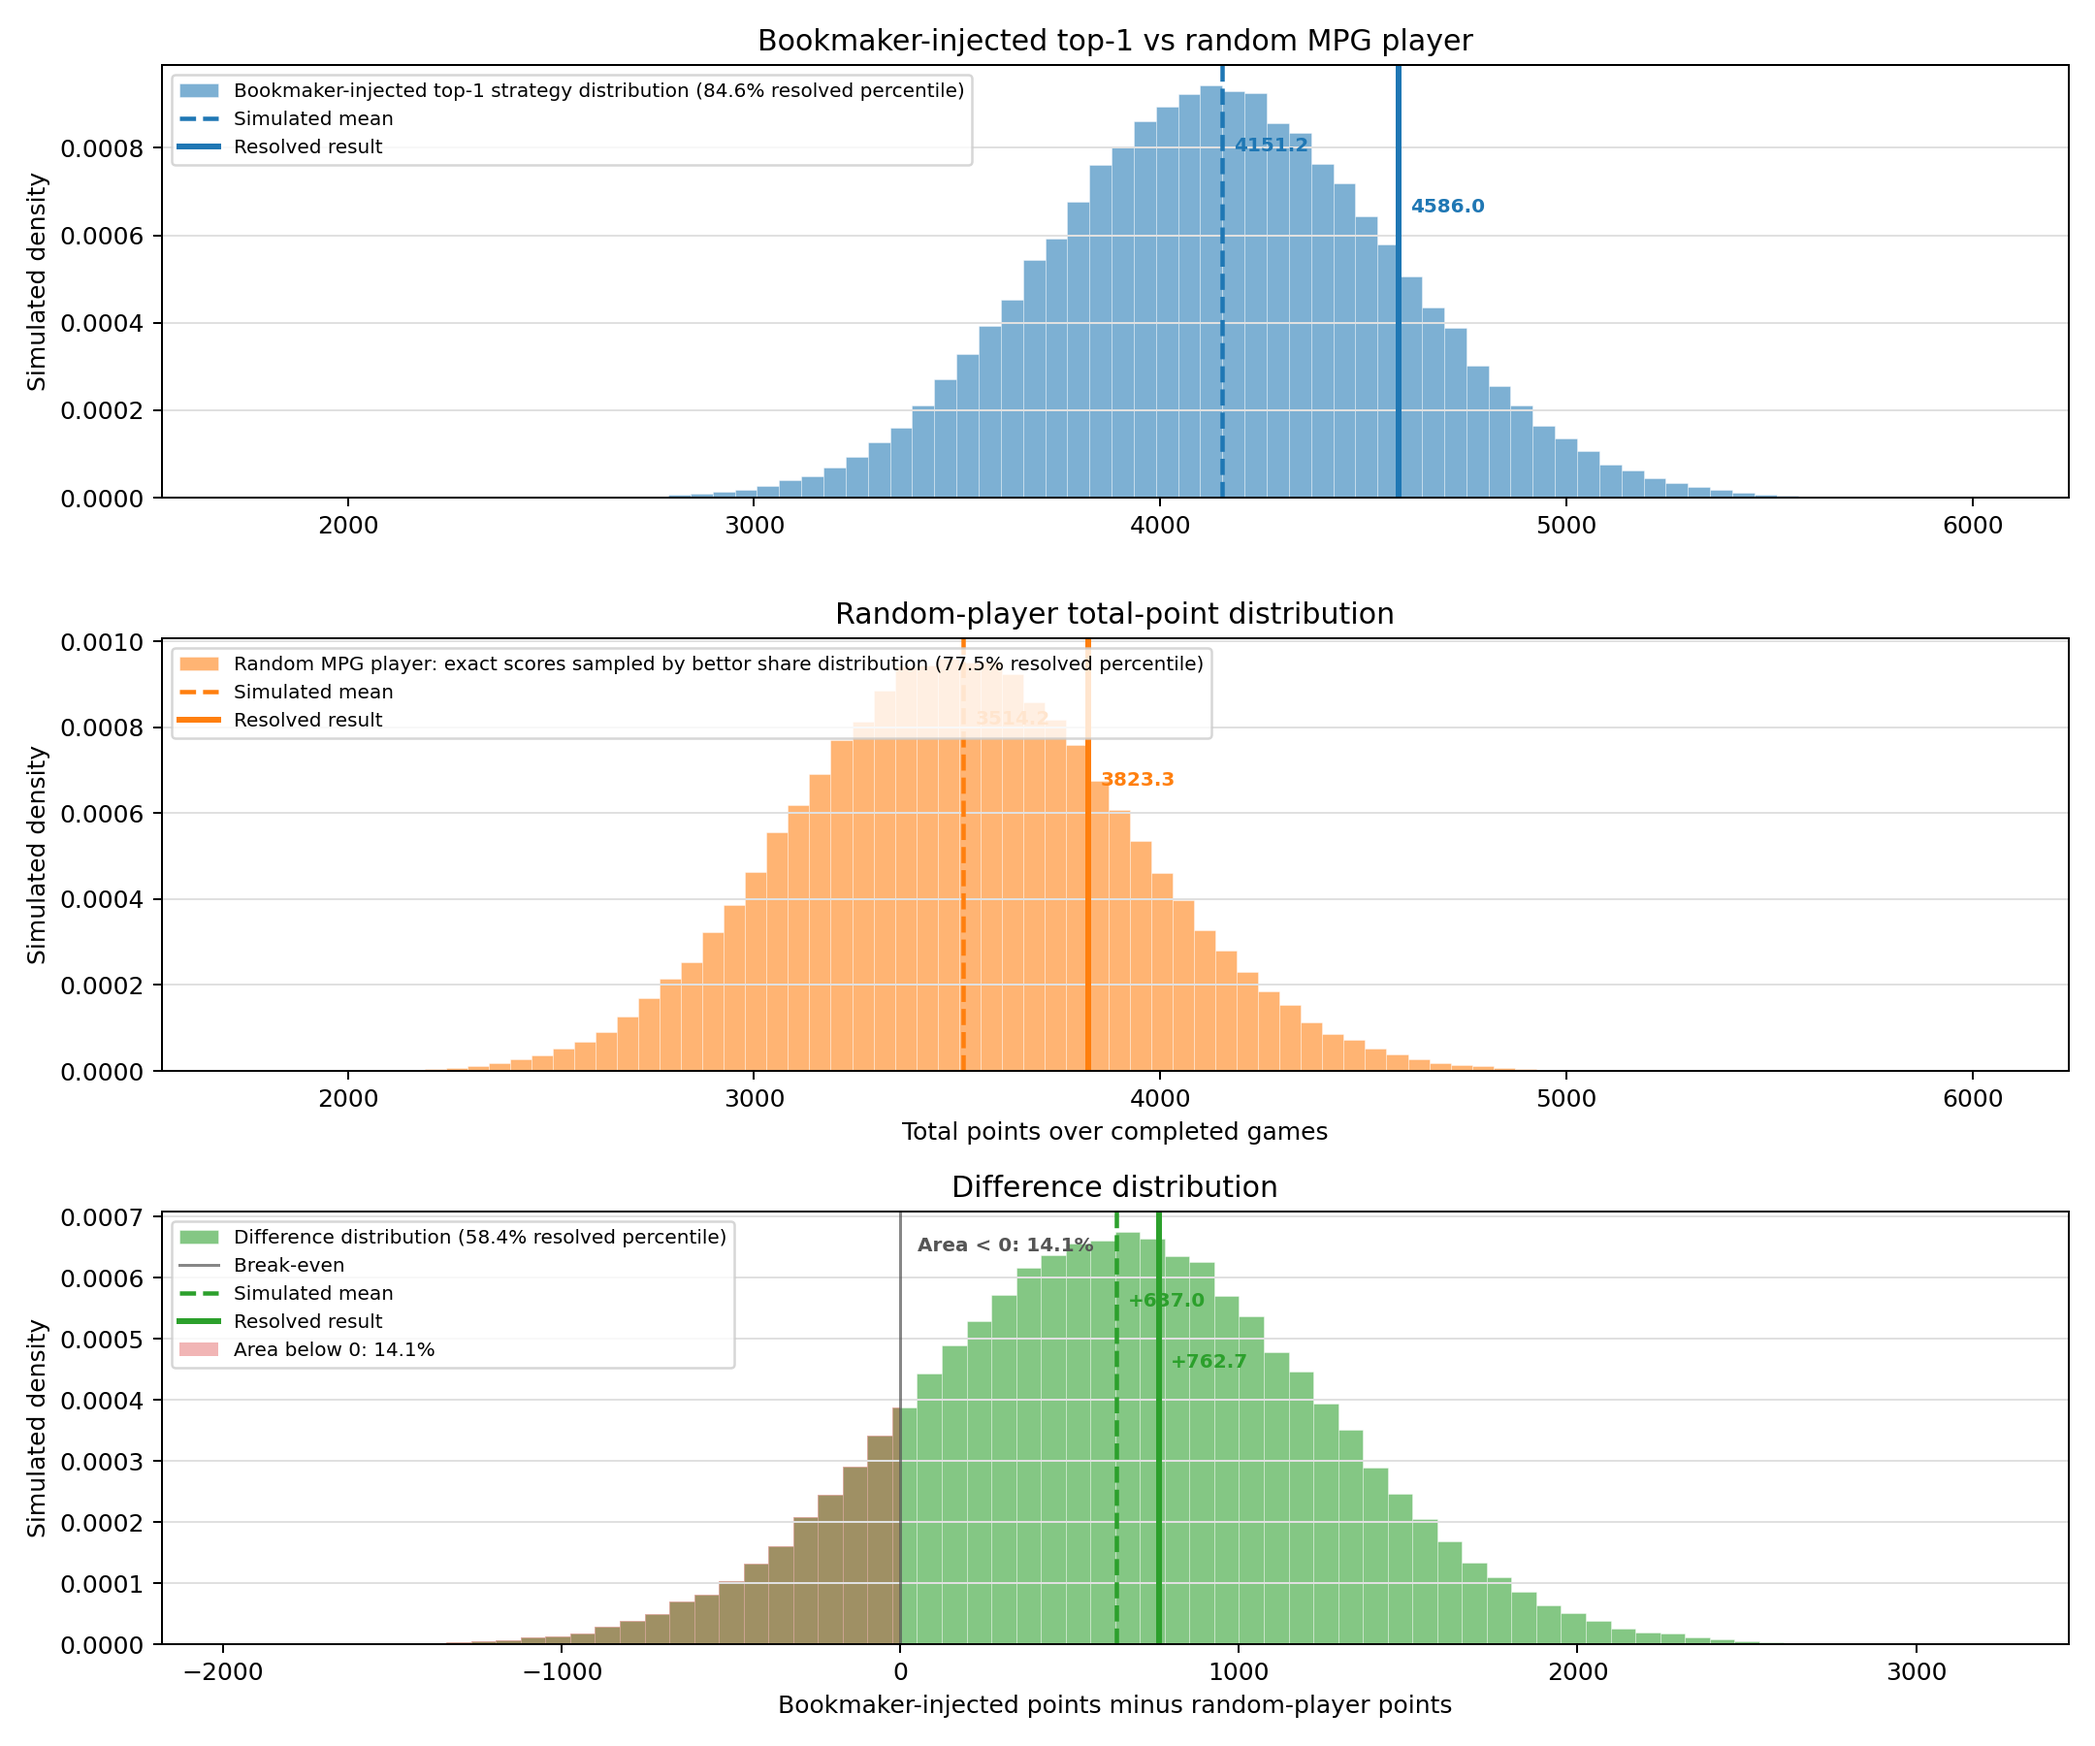
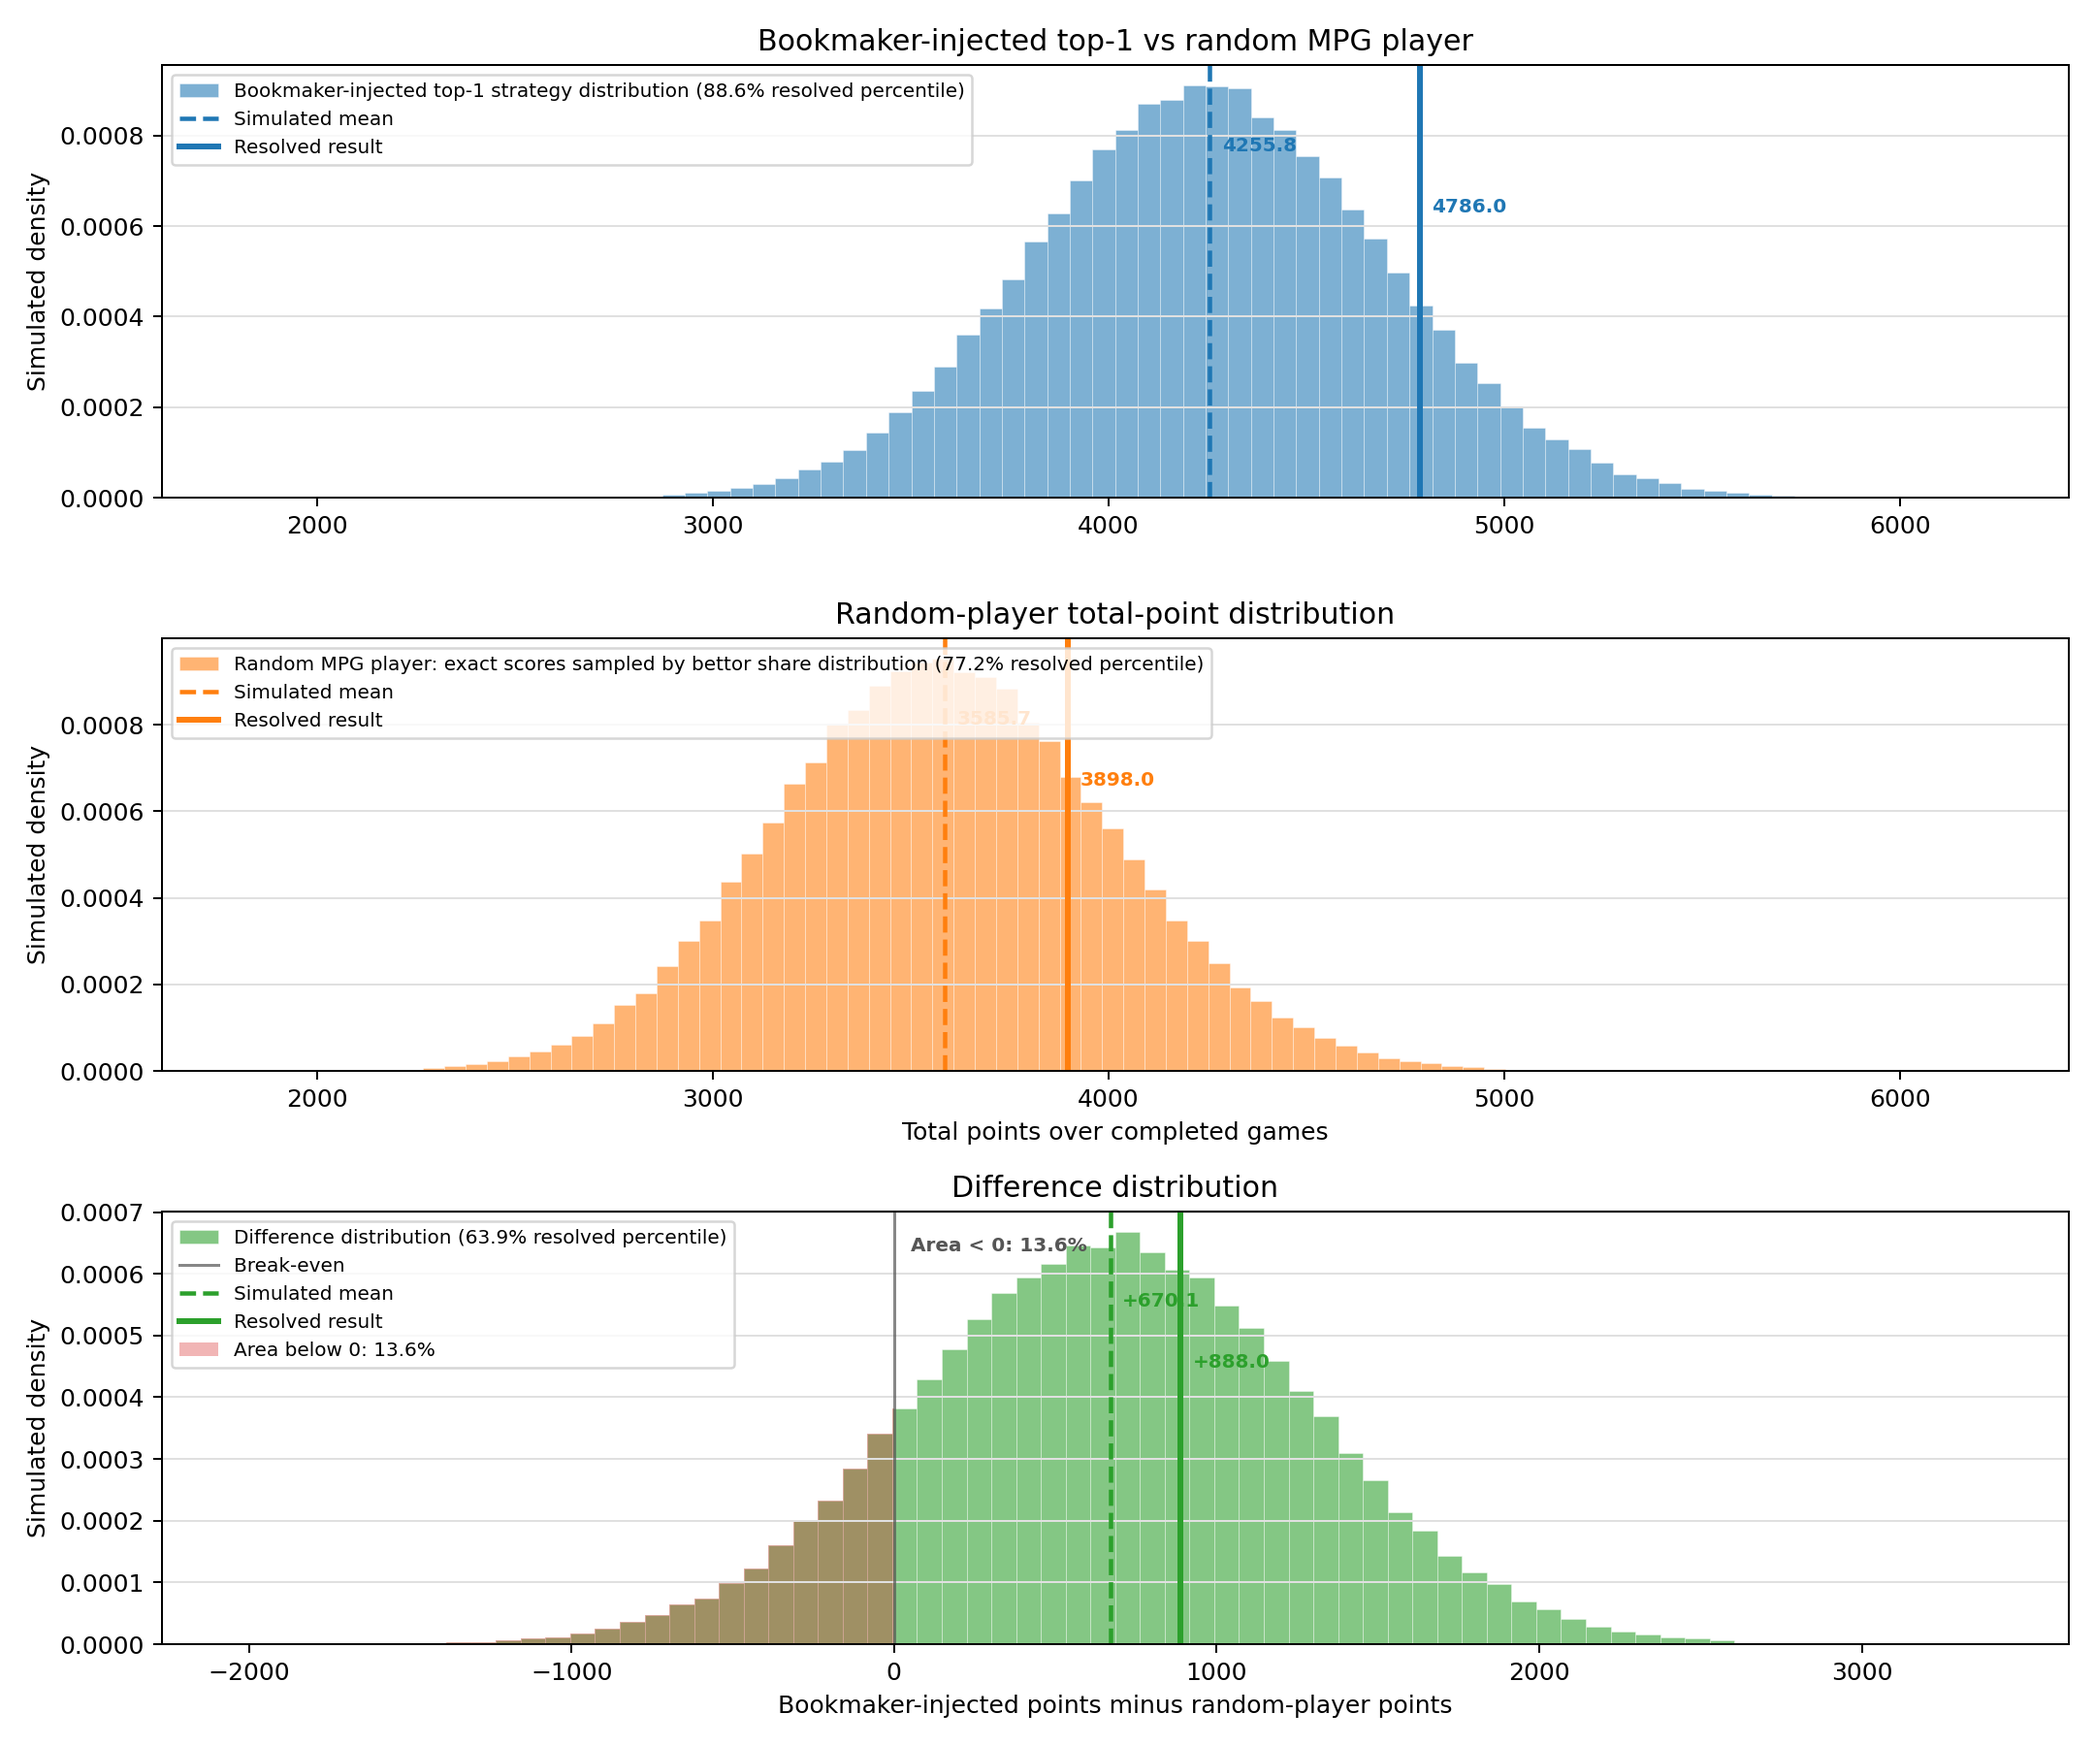
semifinals results

diff --git a/data/analysis/strategy_simulations/analyze_bookmaker_injected_results.py b/data/analysis/strategy_simulations/analyze_bookmaker_injected_results.py
@@ -31,6 +31,7 @@ DEFAULT_SEED = 20260615
 DEFAULT_BETTOR_SHARE_TRANSFER = "transfer"
 LEGACY_BETTOR_SHARE_TRANSFER = "no_transfer"
 BETTOR_SHARE_TRANSFER_VARIANTS = ("no_transfer", "transfer")
+BOOKMAKER_DOUBLE_MATCH = "Tunisia vs Japan"
 ACTUAL_EXACT_BONUS_OVERRIDES = {
     ("Ghana", "Panama", "1-0"): 20.0,
     ("Mexico", "Ecuador", "2-0"): 30.0,
@@ -47,6 +48,7 @@ RESULT_FIELDS = [
     "exact_score_correct",
     "base_points",
     "exact_bonus_points",
+    "payout_multiplier",
     "realized_points",
     "expected_points",
     "realized_minus_expected",
@@ -309,8 +311,13 @@ def score_completed_picks(
             if exact_score_correct
             else 0.0
         )
+        payout_multiplier = (
+            2.0 if prediction["match"] == BOOKMAKER_DOUBLE_MATCH else 1.0
+        )
         realized_points = (
-            base_points + exact_bonus_points if outcome_correct else 0.0
+            (base_points + exact_bonus_points) * payout_multiplier
+            if outcome_correct
+            else 0.0
         )
         scored.append(
             ScoredPick(
@@ -327,11 +334,12 @@ def score_completed_picks(
                     prediction["conditional_share_sigma"]
                 ),
                 base_points=base_points,
-                expected_points=float(prediction["total_ev"]),
+                expected_points=float(prediction["total_ev"]) * payout_multiplier,
                 outcome_correct=outcome_correct,
                 exact_score_correct=exact_score_correct,
                 exact_bonus_points=exact_bonus_points,
                 realized_points=realized_points,
+                payout_multiplier=payout_multiplier,
             )
         )
     return scored
@@ -557,7 +565,9 @@ def simulate_random_player_totals(
 ) -> np.ndarray:
     rng = np.random.default_rng(seed)
     totals = np.zeros(rollouts)
+    game_points: list[np.ndarray] = []
     for game in games:
+        points = np.zeros(rollouts)
         probabilities = np.array(
             [candidate.selection_probability for candidate in game.candidates]
         )
@@ -575,7 +585,7 @@ def simulate_random_player_totals(
                 (candidate_draws >= candidate.exact_score_probability)
                 & (candidate_draws < candidate.outcome_probability)
             )
-            totals[selected_mask] += outcome_only * candidate.base_points
+            points[selected_mask] += outcome_only * candidate.base_points
             exact_count = int(exact.sum())
             if exact_count:
                 exact_bonus = sample_bonus_points(
@@ -599,7 +609,13 @@ def simulate_random_player_totals(
                     rng,
                 )
                 selected_indices = np.flatnonzero(selected_mask)
-                totals[selected_indices[exact]] += candidate.base_points + exact_bonus
+                points[selected_indices[exact]] += candidate.base_points + exact_bonus
+        totals += points
+        game_points.append(points)
+    if game_points:
+        doubled_games = rng.integers(0, len(game_points), size=rollouts)
+        stacked = np.vstack(game_points)
+        totals += stacked[doubled_games, np.arange(rollouts)]
     return totals
 
 
@@ -608,6 +624,7 @@ def simulate_random_player_resolved_totals(
 ) -> np.ndarray:
     rng = np.random.default_rng(seed)
     totals = np.zeros(players)
+    game_points: list[np.ndarray] = []
     for game in games:
         probabilities = np.array(
             [candidate.selection_probability for candidate in game.candidates]
@@ -617,24 +634,38 @@ def simulate_random_player_resolved_totals(
             [candidate.realized_points for candidate in game.candidates]
         )
         selected = rng.choice(len(game.candidates), size=players, p=probabilities)
-        totals += realized_points[selected]
+        points = realized_points[selected]
+        totals += points
+        game_points.append(points)
+    if game_points:
+        doubled_games = rng.integers(0, len(game_points), size=players)
+        stacked = np.vstack(game_points)
+        totals += stacked[doubled_games, np.arange(players)]
     return totals
 
 
 def random_player_realized_points(games: list[RandomGame]) -> float:
-    return sum(
+    base_total = sum(
         candidate.selection_probability * candidate.realized_points
         for game in games
         for candidate in game.candidates
     )
+    if not games:
+        return 0.0
+    double_ev = base_total / len(games)
+    return base_total + double_ev
 
 
 def random_player_expected_points(games: list[RandomGame]) -> float:
-    return sum(
+    base_total = sum(
         candidate.selection_probability * candidate.expected_points
         for game in games
         for candidate in game.candidates
     )
+    if not games:
+        return 0.0
+    double_ev = base_total / len(games)
+    return base_total + double_ev
 
 
 def result_rows(picks: list[ScoredPick]) -> list[dict[str, object]]:
@@ -648,6 +679,7 @@ def result_rows(picks: list[ScoredPick]) -> list[dict[str, object]]:
             "exact_score_correct": pick.exact_score_correct,
             "base_points": pick.base_points if pick.outcome_correct else 0.0,
             "exact_bonus_points": pick.exact_bonus_points,
+            "payout_multiplier": pick.payout_multiplier,
             "realized_points": pick.realized_points,
             "expected_points": pick.expected_points,
             "realized_minus_expected": pick.realized_points

diff --git a/tests/test_analyze_bookmaker_injected_results.py b/tests/test_analyze_bookmaker_injected_results.py
@@ -90,6 +90,54 @@ class ScoreCompletedBookmakerPicksTests(unittest.TestCase):
         self.assertEqual(scored[1].realized_points, 90)
         self.assertTrue(scored[1].exact_score_correct)
 
+    def test_applies_bookmaker_double_to_tunisia_japan(self) -> None:
+        predictions = [
+            {
+                "logged_at_utc": "2026-06-20T00:00:00+00:00",
+                "match": "Tunisia vs Japan",
+                "rank": "1",
+                "score": "0-1",
+                "outcome": "away",
+                "outcome_probability": "0.6",
+                "exact_score_probability": "0.1",
+                "conditional_bettor_share": "0.1",
+                "conditional_share_sigma": "0.01",
+                "nominal_bonus_points": "50",
+                "total_ev": "63",
+                "bettor_share_transfer": "no_transfer",
+                "game_stage": "group",
+            },
+        ]
+        completed = [
+            {
+                "commence_time": "2026-06-21T04:00:00Z",
+                "home_team": "Tunisia",
+                "away_team": "Japan",
+                "home_score": "0",
+                "away_score": "4",
+            },
+        ]
+        mpg = [
+            {
+                "home_team": "Tunisia",
+                "away_team": "Japan",
+                "home_odds": "118",
+                "draw_odds": "103",
+                "away_odds": "91",
+            },
+        ]
+
+        scored = score_completed_picks(
+            predictions,
+            completed,
+            mpg,
+            bettor_share_transfer="no_transfer",
+        )
+
+        self.assertEqual(scored[0].payout_multiplier, 2)
+        self.assertEqual(scored[0].realized_points, 182)
+        self.assertEqual(scored[0].expected_points, 126)
+
     def test_can_ignore_picks_logged_after_kickoff(self) -> None:
         predictions = [
             {
@@ -468,7 +516,7 @@ class ScoreCompletedBookmakerPicksTests(unittest.TestCase):
         self.assertEqual(len(games), 1)
         self.assertAlmostEqual(games[0].candidates[0].selection_probability, 0.75)
         self.assertAlmostEqual(games[0].candidates[1].selection_probability, 0.25)
-        self.assertAlmostEqual(random_player_realized_points(games), 52.5)
+        self.assertAlmostEqual(random_player_realized_points(games), 105.0)
         self.assertGreater(random_player_expected_points(games), 0)
         totals = simulate_random_player_totals(games, rollouts=20, seed=1)
         self.assertEqual(len(totals), 20)
@@ -478,7 +526,7 @@ class ScoreCompletedBookmakerPicksTests(unittest.TestCase):
             seed=1,
         )
         self.assertEqual(len(resolved_totals), 100)
-        self.assertTrue(set(resolved_totals).issubset({0.0, 70.0}))
+        self.assertTrue(set(resolved_totals).issubset({0.0, 140.0}))
 
 
 if __name__ == "__main__":

diff --git a/README.md b/README.md
@@ -95,12 +95,12 @@ as `1-0` and `0-1`.
 
 Latest full run:
 
-- Completed bookmaker-injected top-1 picks: **101**
-- Bookmaker top-1 resolved points: **4586.00**
-- Bookmaker logged EV: **4151.12**
-- Random-player resolved expected points: **3823.26**
-- Realized edge vs random-player baseline: **+762.74**
-- Bookmaker top-1 percentile vs sampled random players: **97.66%**
+- Completed bookmaker-injected top-1 picks: **102**
+- Bookmaker top-1 resolved points: **4786.00**
+- Bookmaker logged EV: **4255.74**
+- Random-player resolved expected points: **3897.97**
+- Realized edge vs random-player baseline: **+888.03**
+- Bookmaker top-1 percentile vs sampled random players: **98.72%**
 
 ![Latest bookmaker-injected top-1 vs random-player simulation](data/analysis/strategy_simulations/bookmaker_injected/top1_vs_random_player_distribution.png)
 
@@ -110,6 +110,8 @@ games and no-transfer rows for non-elimination games.
 ## Resolved Bookmaker-Injected Bets
 
 Legend: `❌` wrong result, `✅` correct result, `🎯` exact score.
+The one-time 2x chip was played on **Tunisia vs Japan**, adding 91 points to
+that row.
 
 | Result | Match | Best bet | Actual | Base | Bonus | Points |
 |---:|---|---:|---:|---:|---:|---:|
@@ -148,7 +150,7 @@ Legend: `❌` wrong result, `✅` correct result, `🎯` exact score.
 | ✅ | Netherlands vs Sweden | 3-0 | 5-1 | 67 | 0 | **67** |
 | ❌ | Germany vs Ivory Coast | 0-0 | 2-1 | 0 | 0 | **0** |
 | ❌ | Ecuador vs Curacao | 4-0 | 0-0 | 0 | 0 | **0** |
-| ✅ | Tunisia vs Japan | 0-1 | 0-4 | 91 | 0 | **91** |
+| ✅ | Tunisia vs Japan | 0-1 (2x) | 0-4 | 91 | 0 | **182** |
 | ✅ | Spain vs Saudi Arabia | 2-0 | 4-0 | 31 | 0 | **31** |
 | ❌ | Belgium vs Iran | 1-0 | 0-0 | 0 | 0 | **0** |
 | ❌ | Uruguay vs Cabo Verde | 1-0 | 2-2 | 0 | 0 | **0** |
@@ -214,7 +216,8 @@ Legend: `❌` wrong result, `✅` correct result, `🎯` exact score.
 | ✅ | Norway vs England | 0-1 | 1-2 | 77 | 0 | **77** |
 | ✅ | Argentina vs Switzerland | 1-0 | 3-1 | 64 | 0 | **64** |
 | ❌ | France vs Spain | 1-0 | 0-2 | 0 | 0 | **0** |
-|  | **Total** |  |  | **4046** | **540** | **4586** |
+| ✅ | England vs Argentina | 0-1 | 1-2 | 109 | 0 | **109** |
+|  | **Total** |  |  | **4155** | **540** | **4786** |
 
 ## Quick Start
 
